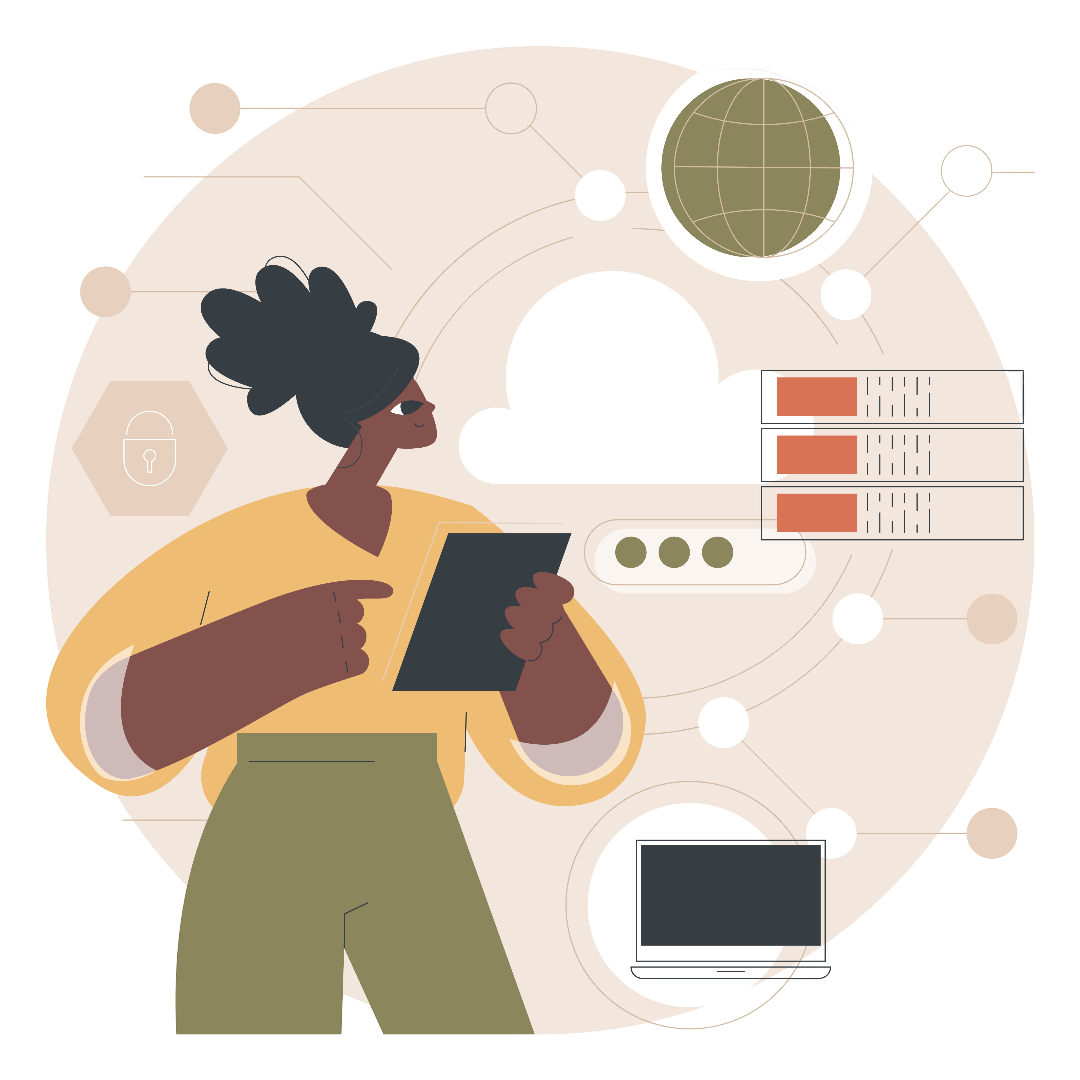
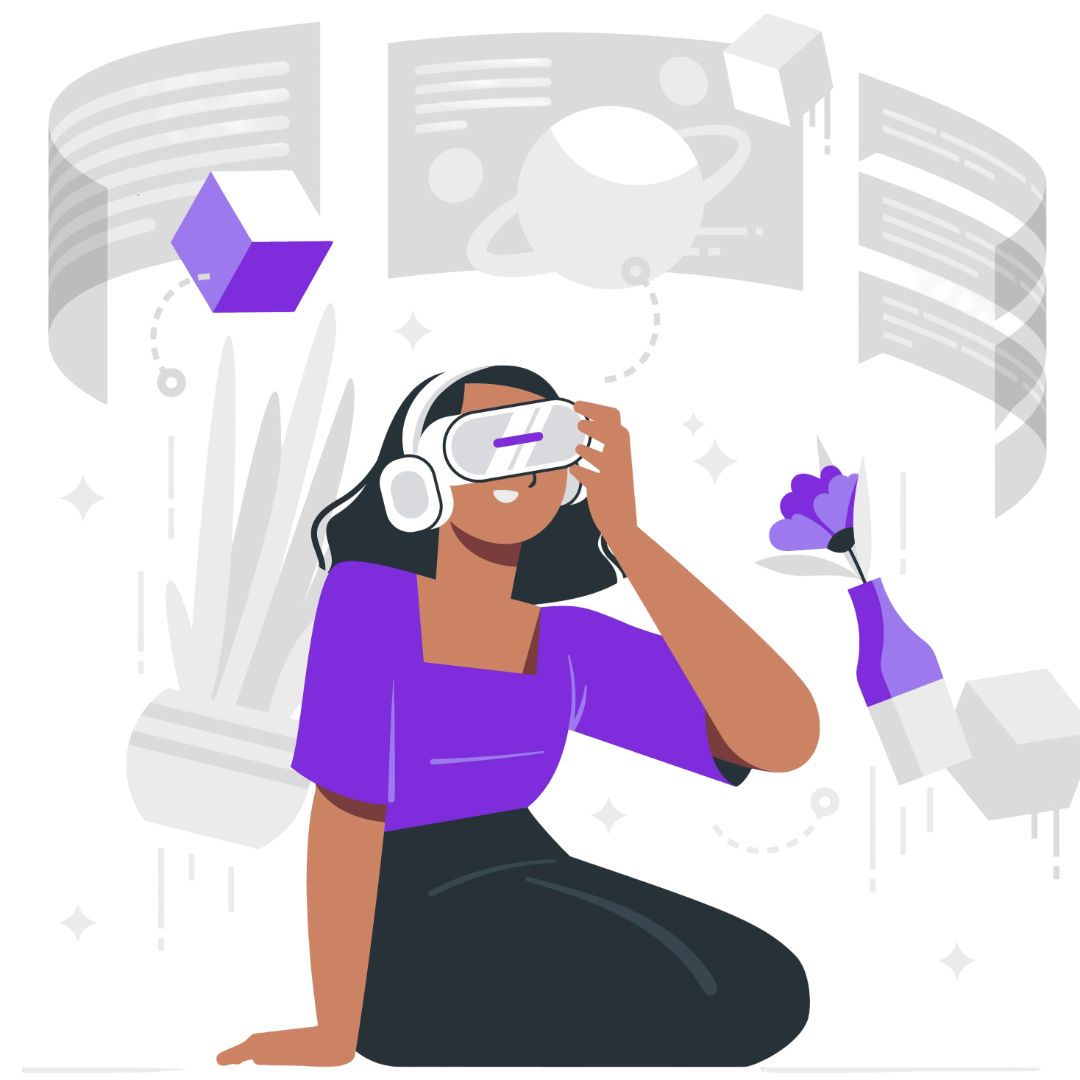
started content upload 5

diff --git a/src/components/AboutMain/AboutMain.jsx b/src/components/AboutMain/AboutMain.jsx
@@ -1,23 +1,18 @@
 import React from 'react';
 import './AboutMain.css';
-import profileImage from '../../assets/easy-pic.png';
+import profileImage from '../../assets/about-1.png';
 
 const AboutMain = () => {
   return (
     <section className="about-us-section">
       <div className="about-us-container container">
-
-        {/* LEFT SECTION */}
         <div className="about-us-left">
           <h2 className="about-us-title">
-            Now Engaging More, <span className="highlight-about">Refreshing</span> Result
+            Empowering Women Through <span className="highlight-about">Skills</span> and Opportunity
           </h2>
 
           <p className="about-us-description">
-            Erat dolore consequuntur facere consectetur beatae beatae habitant conubia
-            porttitor ridiculus cillum animi hic enim dolor, excepteur sapienterav
-            perspiciatis aliquet nunc occaecat illo aliquam Erat dolorecelx consequuntur
-            facere consectetur beatae beatae.
+            We are committed to equipping women with practical, future-ready skills and connecting them to meaningful opportunities that enable sustainable careers, personal growth, and global impact.
           </p>
 
           <div className="about-us-metrics">
@@ -28,44 +23,15 @@ const AboutMain = () => {
                 className="about-us-person-img"
               />
             </div>
-            <div className="about-us-person">
+            {/* <div className="about-us-person">
               <img
-                src={profileImage}
+                src={profileImage2}
                 alt="Surprised man pointing"
                 className="about-us-person-img"
               />
-            </div>
+            </div> */}
           </div>
         </div>
-
-        {/* RIGHT SECTION — COMMENTED OUT */}
-        {/*
-        <div className="about-us-right">
-
-          <div className="video-thumbnail">
-            <div className="play-button">▶</div>
-          </div>
-
-          <ul className="about-us-list">
-            <li>🔹 Nostrud ad dignissim, facilisis quo massa, nemo officia.</li>
-            <li>🔹 Quis ipsa, laboriosam dui odio senectus, senectus per.</li>
-            <li>🔹 At laboriosam, odio asperiores, quasi lorem vel integer.</li>
-          </ul>
-
-          <div className="testimonial">
-            <div>
-              <h4>Meggie Wilson</h4>
-              <p className="testimonial-role">CEO, HEAD DIRECTOR</p>
-            </div>
-            <div className="testimonial-rating">
-              ⭐⭐⭐⭐☆
-              <p>(15k+ Positive Reviews)</p>
-            </div>
-          </div>
-
-        </div>
-        */}
-
       </div>
     </section>
   );

diff --git a/src/components/Courses/Courses.css b/src/components/Courses/Courses.css
@@ -3,44 +3,42 @@
   text-align: center;
 }
 .latest-projects-section {
-  margin-top: var( --space-xl) ;
+  margin-top: var( --space-md) ;
     text-align: center; 
     padding: var(--space-xl) var(--space-xm); 
     background-color: var(--bg-light); 
     font-family: Outfit; 
   }
-  
-  .latest-projects-heading {
-   text-align: center;
-    font-size: var(--font-md);
-    font-family: 'Outfit','Courier New', Courier, monospace;
-    font-weight: 700;
-    color: var(--text-primary);
-  }
-  
-  .latest-text {
-    color:  var(--text-primary); 
-    margin-right: var(--space-xs); 
-  }
-  
-  .projects-text {
-    background: linear-gradient(to right, #f43f5e, #f59e0b);
-    -webkit-background-clip: text;
-    -webkit-text-fill-color: transparent;
-    display: inline-block;
-  }
+
+  .empowerImpact-title, .empowerImpact-title > *{
+  text-align: center;
+  font-size: var(--font-md);
+  font-family: 'Outfit','Courier New', Courier, monospace;
+  font-weight: 700;
+  color: var(--text-primary);
+  margin-top: var(--space-lg);
+  max-width: 500px;
+  margin-left: auto;
+  margin-right: auto;
+}
+
+.empowerImpact-hero span{
+  font-weight: 700;
+  background: linear-gradient(to right, #f43f5e, #f59e0b);
+  -webkit-background-clip: text;
+  -webkit-text-fill-color: transparent;
+}
   
   .latest-projects-description {
-    font-size: var( --font-xxs); 
     color:  var(--text-secondary); 
     max-width: 1000px; 
-    margin: 0 auto; 
+    margin: var(--space-sm) auto; 
     line-height: 1.6; 
   }
   
   
   .project-grid-section {
-    padding: 60px 20px; 
+    padding: 20px 20px 40px 20px; 
     font-family: Outfit(woff2), sans-serif; 
   }
   
@@ -157,8 +155,15 @@
     .project-category {
       margin: 0 0px 15px 0px;
     }
-  
-  
+
+    .latest-projects-description {
+      max-width: 800px;
+  }
+
+  .project-grid-section {
+    padding-top: 50px; 
+    padding-bottom: 100px;
+  }
   }
   
   @media (min-width: 1440px) {
@@ -169,6 +174,9 @@
     .project-category {
       margin: 0 0px 15px 0px;
     }
-  
+
+        .latest-projects-description {
+      max-width: 1000px;
+  }
   
   }

diff --git a/src/components/AboutMain/AboutMain.css b/src/components/AboutMain/AboutMain.css
@@ -1,5 +1,4 @@
 .about-us-section {
-  /* padding: 3rem 2rem; */
   background-color: #fff;
   font-family: 'Segoe UI', sans-serif;
 }
@@ -36,26 +35,16 @@
 }
 
 .about-us-description {
-  font-size: var(--font-xxs);
   text-align: center;
   color: var(--text-secondary);
-  max-width: 600px;
   margin-left: auto;
   margin-right: auto;
   margin-bottom: var(--space-md);
 }
 
-/* .about-us-metrics {
-  display: flex;
-  justify-content: space-between;
-  width: 100%;
-  gap: 30px;
-} */
-
 .about-us-person-img {
   width: 100%;
-  padding-bottom: 20px;
-  height: 350px;
+  padding-bottom: 50px;
 }
 
 .about-us-engagement-box {
@@ -154,19 +143,41 @@
   width: 100%;
   gap: 30px;
 }
+
+.about-us-title {
+  max-width: 500px;
+  margin-left: auto;
+  margin-right: auto;
+}
+
+.about-us-person {
+  width: 50%;
+  margin-left: auto;
+  margin-right: auto;
+}
+
+.about-us-description {
+    max-width: 600px;
+}
 }
 
 @media (min-width: 1024px) {
-  .about-us-person-img {
-  width: 100%;
-  padding-bottom: 20px;
-  height: 450px;
-}
 
 .about-us-metrics {
   display: flex;
   justify-content: space-around;
   width: 100%;
   gap: 20px;
+}
+
+.about-us-description {
+    max-width: 700px;
+}
+}
+
+@media (min-width: 1440px) {
+
+.about-us-description {
+    max-width: 1000px;
 }
 }

diff --git a/src/components/Courses/Courses.jsx b/src/components/Courses/Courses.jsx
@@ -4,7 +4,7 @@ import "./Courses.css";
 import eventImage1 from '../../assets/AI-png.png';
 import eventImage2 from '../../assets/devops-png.png';
 import eventImage3 from '../../assets/backend-png.png';
-import eventImage4 from '../../assets/fullstack-dev-png.png';
+import eventImage4 from '../../assets/fullstack-second.png';
 import eventImage5 from '../../assets/Frontend-png.png';
 import eventImage6 from '../../assets/business-development-2.png';
 
@@ -53,8 +53,9 @@ function Courses() {
 
       <div className="latest-projects-section">
         <h2 className="latest-projects-heading">
-          <span className="latest-text">Latest</span>
-          <span className="projects-text">Courses</span>
+          <h2 className="empowerImpact-title">
+            Latest <span className="empowerImpact-highlight">Courses</span> 
+          </h2>
         </h2>
         <p className="latest-projects-description">
           Explore our most recent courses designed to equip you with the skills needed in today’s digital world. From beginner-friendly modules to advanced training.

diff --git a/src/components/Testimonial/Testimonial.jsx b/src/components/Testimonial/Testimonial.jsx
@@ -16,13 +16,13 @@ function Testimonial() {
         <div className="testimonial-videos">
           <div className="video-card">
             <iframe
-              src="https://www.youtube.com/embed/726ZxOhPBH0?si=s4QOLqh_s2WvfcSq"
+              src="https://www.youtube.com/embed/726ZxOhPBH0?si=s4Y2MQmG4EThFThC"
               title="Student Experience 1"
               frameBorder="0"
               allow="accelerometer; autoplay; clipboard-write; encrypted-media; gyroscope; picture-in-picture"
               allowFullScreen
             ></iframe>
-            <p className="video-caption">Aisha shares how she built her first full-stack app</p>
+            <p className="video-caption">Fatima shares how she built her first full-stack app</p>
           </div>
           <div className="video-card">
             <iframe

diff --git a/src/components/Blog/Blog.jsx b/src/components/Blog/Blog.jsx
@@ -46,7 +46,7 @@ const BlogSection = () => {
             <p className="blog-subtitle">
                 Stay updated with our latest workshops, training programs, and success stories that highlight the impact of our initiatives.
             </p>
-
+            
             <div className="blog-cards">
                 {blogPosts.map((post) => (
                 <div className="blog-card" key={post.id}>

diff --git a/src/components/Empower/empower.jsx b/src/components/Empower/empower.jsx
@@ -1,6 +1,6 @@
 import './empower.css';
-import EasyImage1 from "../../assets/careers-1.png";
-import EasyImage2 from "../../assets/careers-2.png";
+import EasyImage1 from "../../assets/careers-2-1.png";
+import EasyImage2 from "../../assets/careers-1.png";
 
 export default function EmpowerImpact() {
   return (

diff --git a/src/components/Empower/empower.css b/src/components/Empower/empower.css
@@ -24,7 +24,7 @@
   margin-right: auto;
 }
 
-.empowerImpact-hero span{
+.latest-projects-heading span{
   font-weight: 700;
   background: linear-gradient(to right, #f43f5e, #f59e0b);
   -webkit-background-clip: text;
